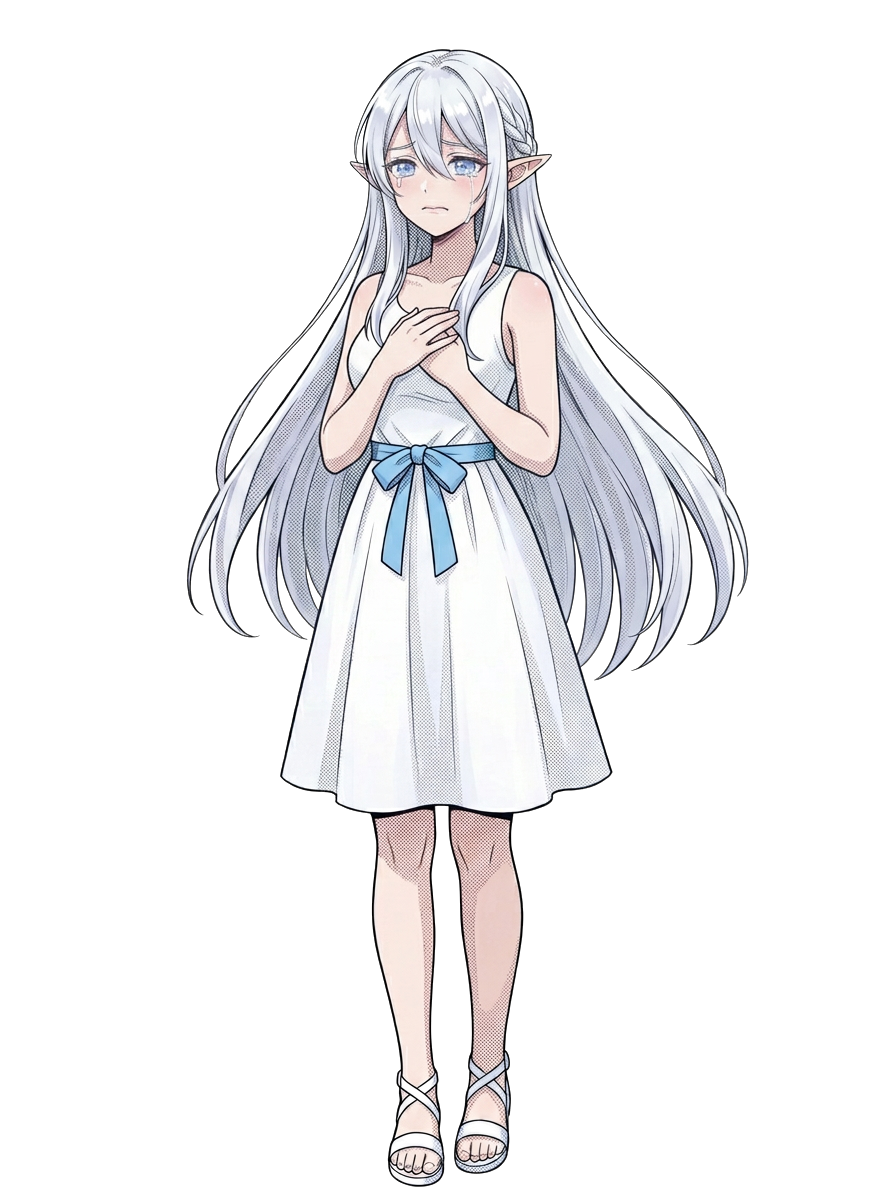
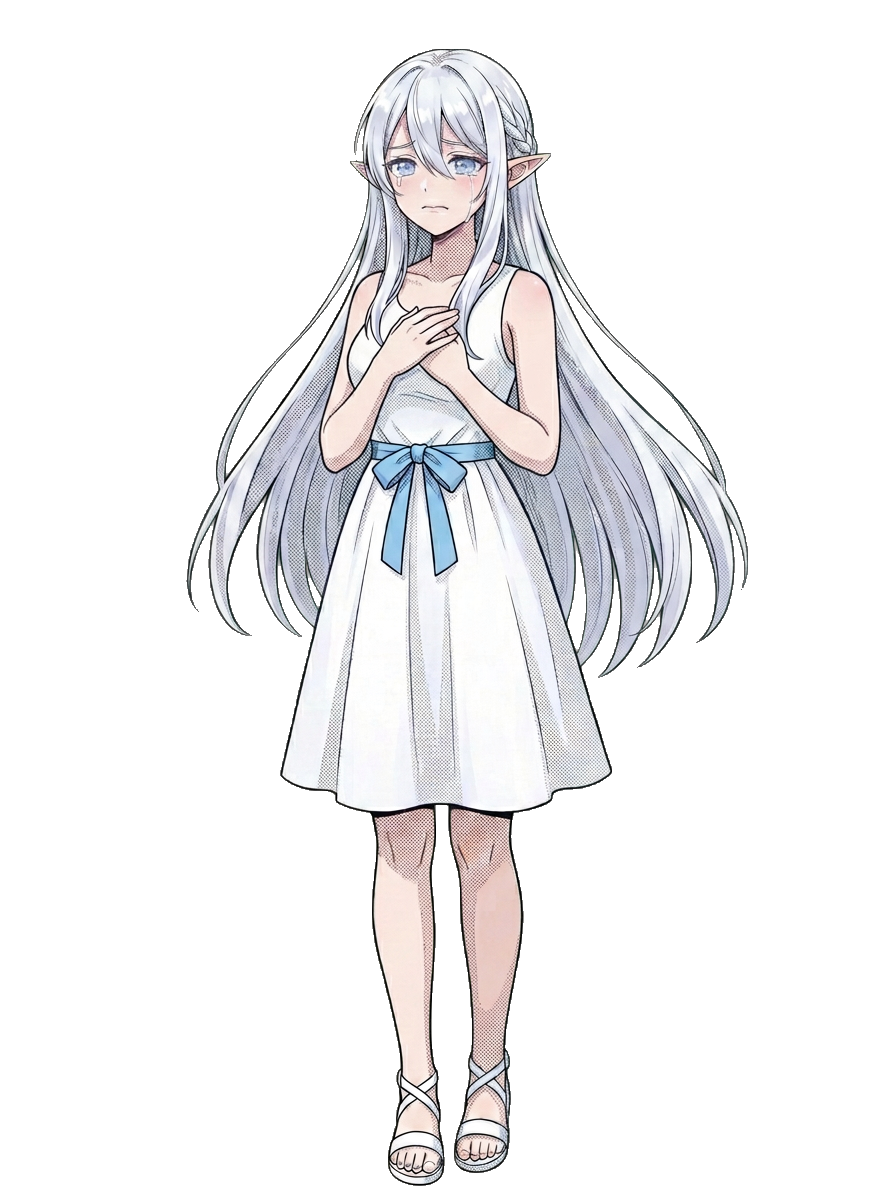
Re-cut Mirael human x6 and Valeria x4 via chroma key; ASSET_VER _17

Changed region(s): [[0.2119, 0.0308, 0.8475, 1.0], [0.333, 0.5242, 0.3935, 0.6783]]

diff --git a/index.html b/index.html
@@ -260,34 +260,34 @@
   </div>
 
   <!-- SCRIPT CHAPTERS -->
-  <script src="vn-config.js?v=20261101_16"></script>
-  <script src="vn-core.js?v=20261101_16"></script>
-  <script src="script/_registry.js?v=20261101_16"></script>
-  <script src="script/prologue_1_morning.js?v=20261101_16"></script>
-  <script src="script/prologue_2_city.js?v=20261101_16"></script>
-  <script src="script/prologue_3_barbershop.js?v=20261101_16"></script>
-  <script src="script/prologue_4_depot.js?v=20261101_16"></script>
-  <script src="script/prologue_5_crash.js?v=20261101_16"></script>
-  <script src="script/day1_1_mirael.js?v=20261101_16"></script>
-  <script src="script/day1_2_valeria.js?v=20261101_16"></script>
-  <script src="script/day1_3_evening.js?v=20261101_16"></script>
-  <script src="script/day2_1_quit.js?v=20261101_16"></script>
-  <script src="script/day2_2_zero.js?v=20261101_16"></script>
-  <script src="script/day2_3_walk.js?v=20261101_16"></script>
-  <script src="script/day3_1_office.js?v=20261101_16"></script>
-  <script src="script/day3_2_nika.js?v=20261101_16"></script>
-  <script src="script/day3_3_home.js?v=20261101_16"></script>
-  <script src="script/day4_1_free.js?v=20261101_16"></script>
-  <script src="script/day4_2_barbershop.js?v=20261101_16"></script>
-  <script src="script/day4_3_home.js?v=20261101_16"></script>
-  <script src="script/day5_1_artyom.js?v=20261101_16"></script>
-  <script src="script/day5_2_elevator.js?v=20261101_16"></script>
-  <script src="script/day5_3_night.js?v=20261101_16"></script>
-  <script src="script/day6_1_morning.js?v=20261101_16"></script>
-  <script src="script/day6_2_squeeze.js?v=20261101_16"></script>
-  <script src="script/day6_3_taya.js?v=20261101_16"></script>
-  <script src="script/day7_1_voices.js?v=20261101_16"></script>
-  <script src="script/day7_2_stairs.js?v=20261101_16"></script>
-  <script src="engine.js?v=20261101_16"></script>
+  <script src="vn-config.js?v=20261101_17"></script>
+  <script src="vn-core.js?v=20261101_17"></script>
+  <script src="script/_registry.js?v=20261101_17"></script>
+  <script src="script/prologue_1_morning.js?v=20261101_17"></script>
+  <script src="script/prologue_2_city.js?v=20261101_17"></script>
+  <script src="script/prologue_3_barbershop.js?v=20261101_17"></script>
+  <script src="script/prologue_4_depot.js?v=20261101_17"></script>
+  <script src="script/prologue_5_crash.js?v=20261101_17"></script>
+  <script src="script/day1_1_mirael.js?v=20261101_17"></script>
+  <script src="script/day1_2_valeria.js?v=20261101_17"></script>
+  <script src="script/day1_3_evening.js?v=20261101_17"></script>
+  <script src="script/day2_1_quit.js?v=20261101_17"></script>
+  <script src="script/day2_2_zero.js?v=20261101_17"></script>
+  <script src="script/day2_3_walk.js?v=20261101_17"></script>
+  <script src="script/day3_1_office.js?v=20261101_17"></script>
+  <script src="script/day3_2_nika.js?v=20261101_17"></script>
+  <script src="script/day3_3_home.js?v=20261101_17"></script>
+  <script src="script/day4_1_free.js?v=20261101_17"></script>
+  <script src="script/day4_2_barbershop.js?v=20261101_17"></script>
+  <script src="script/day4_3_home.js?v=20261101_17"></script>
+  <script src="script/day5_1_artyom.js?v=20261101_17"></script>
+  <script src="script/day5_2_elevator.js?v=20261101_17"></script>
+  <script src="script/day5_3_night.js?v=20261101_17"></script>
+  <script src="script/day6_1_morning.js?v=20261101_17"></script>
+  <script src="script/day6_2_squeeze.js?v=20261101_17"></script>
+  <script src="script/day6_3_taya.js?v=20261101_17"></script>
+  <script src="script/day7_1_voices.js?v=20261101_17"></script>
+  <script src="script/day7_2_stairs.js?v=20261101_17"></script>
+  <script src="engine.js?v=20261101_17"></script>
 </body>
 </html>

diff --git a/engine.js b/engine.js
@@ -1,6 +1,6 @@
 // ДВИЖОК ВИЗУАЛЬНОЙ НОВЕЛЛЫ «НЕ СМОТРИ НА НЕБО» ($WAG ENTERTAINMENT)
 (function () {
-  const ASSET_VER = "20261101_16";
+  const ASSET_VER = "20261101_17";
 
   function withVer(url) {
     if (!url) return "";

diff --git a/docs/production/assets.md b/docs/production/assets.md
@@ -125,9 +125,9 @@
 |---|---|
 | Саша, рубашка: neutral, smile, stressed*, surprised*, thoughtful, wounded, determined_anger, happy, sad, shocked* | ✅ 01.11 (* — поправлены глаза) |
 | Саша: shy, shocked_terrified, куртка ×7 (shocked*, surprised*), courier_rain | ✅ 01.11 — **Саша закрыт целиком, 20/20** |
-| Мираэль: ангел ×8, человек neutral/happy (`--neutral-despill`) | ✅ 01.11 — у крыльев вернулись перья, потерянные старой вырезкой |
-| Мираэль, человек: sad, shy, surprised, crying, determined_anger, shocked_terrified | ⏳ |
-| Валерия (×9 + human ×9) | ⏳ |
+| Мираэль: ангел ×8, человек ×8 (`--neutral-despill`) | ✅ 01.11 — у крыльев вернулись перья, открыты просветы между прядями |
+| Валерия, истинный облик: neutral, amused, angry, cold_serious (`--neutral-despill`) | ✅ 01.11 |
+| Валерия, истинный облик: contract, playful_smile, soft_vulnerable, surprised, thoughtful; human ×9 | ⏳ |
 | Лена ×10, Ника ×8, Дмитрий ×5 | ⏳ |
 | Тая | ждём новый дефолтный спрайт от автора |
 
